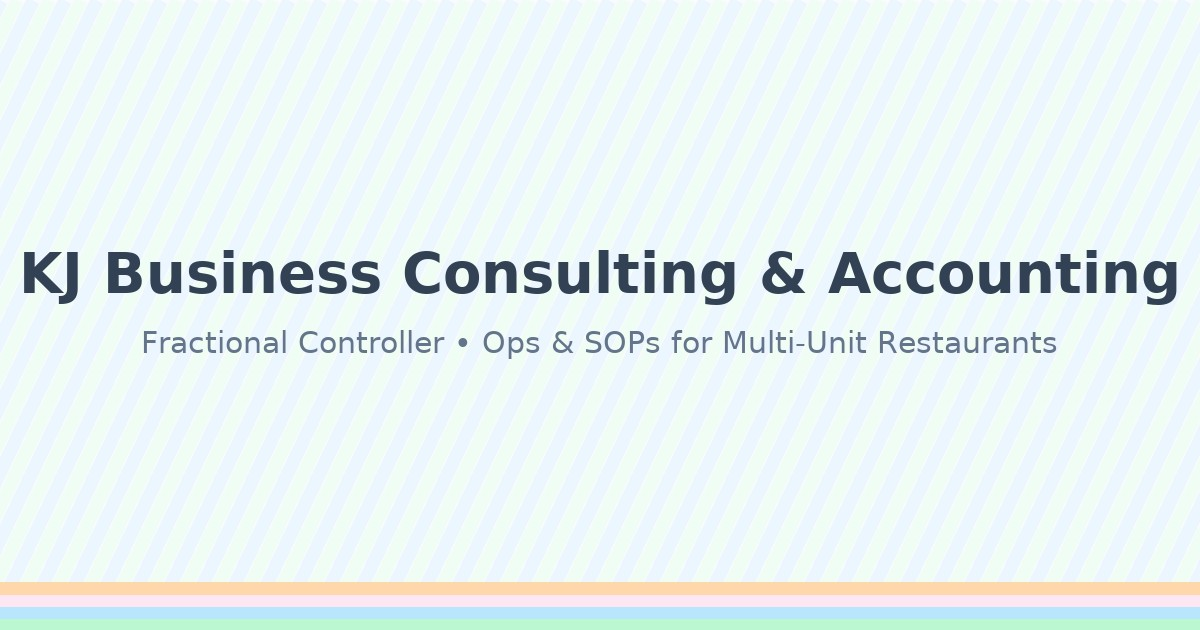
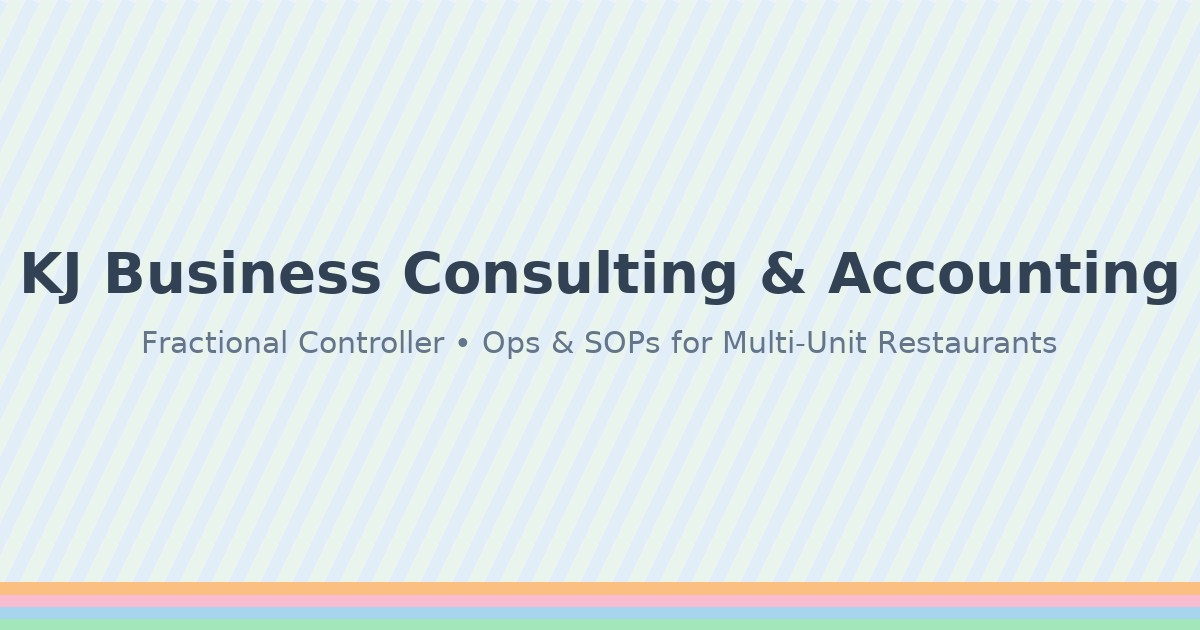
Add files via upload

Changed region(s): [[0.0, 0.9048, 1.0, 0.9952]]

diff --git a/index.html b/index.html
@@ -5,43 +5,65 @@
   <meta name="viewport" content="width=device-width, initial-scale=1" />
   <title>KJ Business Consulting & Accounting — Fractional Controller for Restaurants</title>
   <meta name="description" content="Restaurant-focused fractional controller & operations consulting: weekly P&Ls, 5-day close, KPIs, SOPs, and floor execution for multi-unit operators." />
-  <meta id="themeColorMeta" name="theme-color" content="#f8fafc" />
+  <meta id="themeColorMeta" name="theme-color" content="#e9eef6" />
   <link rel="icon" href="/favicon.ico">
   <link rel="preconnect" href="https://fonts.googleapis.com">
   <link rel="preconnect" href="https://fonts.gstatic.com" crossorigin>
   <link href="https://fonts.googleapis.com/css2?family=Inter:wght@300;400;500;600;700;800;900&display=swap" rel="stylesheet">
   <style>
     :root{
-      --bg:#fafcff; --bg-grad:#ffffff; --fg:#0f172a; --muted:#475569; --card:#ffffff; --border:rgba(15,23,42,.10);
-      --p-green:#bbf7d0; --p-sky:#bae6fd; --p-pink:#fce7f3; --p-amber:#fed7aa;
+      --bg:#eef2f7; --bg-grad:#f7f9fc; --fg:#0f172a; --muted:#475569; --card:#ffffff; --border:rgba(15,23,42,.12);
+      --p-green:#a3e6ba; --p-sky:#a8d5ee; --p-pink:#f8bbd0; --p-amber:#fbbf82;  /* darker pastels for contrast */
       --corner-size:16px; --radius:18px; --shadow: 0 18px 35px rgba(2,6,23,.08);
     }
+    /* Soft dark mode */
+    [data-theme="dark"]{
+      --bg:#0e1523; --bg-grad:#101a2f; --fg:#e5e7eb; --muted:#9aa6b2; --card:#0f1b30; --border:rgba(148,163,184,.22);
+      --p-green:#3bc981; --p-sky:#4bb6ee; --p-pink:#f08fb1; --p-amber:#f2a65a;
+      --shadow: 0 18px 35px rgba(0,0,0,.35);
+    }
+
     *{box-sizing:border-box}
     html,body{margin:0;padding:0;background:linear-gradient(180deg,var(--bg) 0%, var(--bg) 40%, var(--bg-grad) 100%);color:var(--fg);font-family:Inter,system-ui,-apple-system,Segoe UI,Roboto,"Helvetica Neue",Arial,"Noto Sans",sans-serif;}
     a{color:#0ea5e9}
+    [data-theme="dark"] a{color:#7dd3fc}
+
     .container{max-width:1100px;margin:0 auto;padding:0 20px}
-    header{position:sticky;top:0;backdrop-filter:saturate(180%) blur(8px);background:rgba(248,250,252,.86);border-bottom:1px solid var(--border);z-index:10}
-    nav{display:flex;align-items:center;justify-content:space-between;padding:14px 0;gap:12px}
+
+    header{position:sticky;top:0;backdrop-filter:saturate(180%) blur(8px);background:rgba(238,242,247,.86);border-bottom:1px solid var(--border);z-index:10}
+    [data-theme="dark"] header{background:rgba(15,22,35,.72)}
+    nav{display:flex;align-items:center;justify-content:space-between;padding:12px 0;gap:12px}
     .logo{display:flex;align-items:center;gap:10px;text-decoration:none;color:inherit}
     .logo svg{width:40px;height:40px}
     .logo span{font-weight:800;letter-spacing:.2px}
-    .nav-links a{color:var(--fg);text-decoration:none;margin-left:12px;font-weight:600;opacity:.9}
+    .nav-links a{color:var(--fg);text-decoration:none;margin-left:12px;font-weight:600;opacity:.92}
+    .toggle{border:1px solid var(--border);background:transparent;border-radius:999px;padding:8px 12px;color:var(--fg);cursor:pointer}
+
+    /* Buttons */
     .btn{display:inline-flex;align-items:center;gap:10px;border:none;color:#0f172a;padding:12px 16px;border-radius:14px;font-weight:800;text-decoration:none;box-shadow:var(--shadow);cursor:pointer}
     .btn.book{background:linear-gradient(135deg,var(--p-green),var(--p-sky));}
     .btn.email{background:linear-gradient(135deg,var(--p-pink),var(--p-amber));}
+    [data-theme="dark"] .btn{color:#08111e}
+
     .hero{padding:72px 0 40px;border-bottom:1px solid var(--border);text-align:center}
-    .tagline{display:inline-flex;align-items:center;gap:10px;font-size:13px;letter-spacing:.2em;text-transform:uppercase;color:#0f172a;background:linear-gradient(90deg,var(--p-pink),var(--p-amber));padding:10px 14px;border-radius:999px;font-weight:900;border:1px solid rgba(15,23,42,.08);box-shadow:var(--shadow);}
+    .tagline{display:inline-flex;align-items:center;gap:10px;font-size:14px;letter-spacing:.22em;text-transform:uppercase;color:#0f172a;background:linear-gradient(90deg,var(--p-pink),var(--p-amber));padding:10px 16px;border-radius:999px;font-weight:900;border:1px solid rgba(15,23,42,.10);box-shadow:var(--shadow);}
+    [data-theme="dark"] .tagline{color:#08111e; border-color:rgba(255,255,255,.06)}
     .hero-ctas{display:flex;gap:12px;justify-content:center;margin:18px 0 28px}
     h1{font-size:clamp(30px,4vw,44px);line-height:1.15;margin:0 0 12px;font-weight:900}
     .sub{font-size:18px;color:var(--muted);margin-bottom:26px;max-width:860px;margin-left:auto;margin-right:auto}
+
     .stripe{height:6px;background:linear-gradient(90deg,var(--p-green),var(--p-sky),var(--p-pink),var(--p-amber));border-radius:999px;margin:28px 0}
+
     .grid-3{display:grid;grid-template-columns:repeat(3,1fr);gap:18px}
     .grid-4{display:grid;grid-template-columns:repeat(4,1fr);gap:18px}
     @media (max-width: 980px){ .grid-3,.grid-4{grid-template-columns:1fr} }
+
     .card{position:relative;background:var(--card);border:1px solid var(--border);border-radius:var(--radius);padding:18px;box-shadow:0 10px 30px rgba(14,165,233,.10), 0 18px 40px rgba(251,113,133,.08);}
+    [data-theme="dark"] .card{box-shadow:0 10px 30px rgba(0,0,0,.35)}
     .card::before,.card::after{content:"";position:absolute;width:var(--corner-size);height:var(--corner-size);border-radius:10px;z-index:1}
     .card::before{top:-1px;left:-1px;background:linear-gradient(135deg,var(--p-green),var(--p-sky));}
     .card::after{bottom:-1px;right:-1px;background:linear-gradient(135deg,var(--p-pink),var(--p-amber));}
+
     h2.section-title{text-align:center;margin:0 0 18px;position:relative;padding-bottom:10px;font-size:28px}
     h2.section-title .bar{position:absolute;left:0;right:0;margin:auto;bottom:-2px;height:4px;width:160px;border-radius:999px}
     .h-green .bar{background:linear-gradient(90deg,var(--p-green),#d1fae5)}
@@ -49,15 +71,20 @@
     .h-pink .bar{background:linear-gradient(90deg,var(--p-pink),#ffe4f1)}
     .h-amber .bar{background:linear-gradient(90deg,var(--p-amber),#ffedd5)}
     .h-mix .bar{background:linear-gradient(90deg,var(--p-green),var(--p-sky),var(--p-pink))}
-    .badge{display:inline-block;border:1px solid var(--border);padding:6px 10px;border-radius:999px;margin:6px 6px 0 0;color:#0f172a;font-weight:700;font-size:12px;background:#f8fafc}
+
+    .badge{display:inline-block;border:1px solid var(--border);padding:6px 10px;border-radius:999px;margin:6px 6px 0 0;color:var(--fg);font-weight:700;font-size:12px;background:transparent}
     .note{font-size:12px;color:var(--muted);margin-top:8px;max-width:860px;margin-left:auto;margin-right:auto}
+
     section{padding:56px 0;border-bottom:1px solid var(--border)}
     footer{padding:24px 0;color:#64748b}
-    .footer-grid{display:grid;grid-template-columns:auto 1fr;align-items:center;gap:12px}
+    [data-theme="dark"] footer{color:#9aa6b2}
+    .footer-grid{display:grid;grid-template-columns:1fr 1fr 1fr;align-items:center;gap:12px}
     .footer-left{display:flex;gap:10px;justify-self:start}
-    .footer-center{text-align:center;width:100%}
-    .intake-form input, .intake-form select, .intake-form textarea{padding:12px;border-radius:12px;border:1px solid var(--border);background:#fbfdff;color:var(--fg);width:100%}
-    .intake-form fieldset{border:1px solid var(--border);border-radius:12px;padding:12px;background:#ffffff}
+    .footer-center{text-align:center}
+    .footer-right{display:flex;gap:10px;justify-self:end}
+
+    .intake-form input, .intake-form select, .intake-form textarea{padding:12px;border-radius:12px;border:1px solid var(--border);background:var(--card);color:var(--fg);width:100%}
+    .intake-form fieldset{border:1px solid var(--border);border-radius:12px;padding:12px;background:var(--card)}
     .intake-form legend{padding:0 6px;color:var(--muted)}
   </style>
 </head>
@@ -68,7 +95,7 @@
         <a class="logo" href="#top" aria-label="KJ Business Consulting & Accounting home">
           <svg viewBox="0 0 64 64" role="img" aria-hidden="true">
             <defs><linearGradient id="g" x1="0" y1="0" x2="1" y2="1">
-              <stop offset="0%" stop-color="#bbf7d0"/><stop offset="60%" stop-color="#bae6fd"/><stop offset="100%" stop-color="#fed7aa"/></linearGradient></defs>
+              <stop offset="0%" stop-color="#a3e6ba"/><stop offset="60%" stop-color="#a8d5ee"/><stop offset="100%" stop-color="#fbbf82"/></linearGradient></defs>
             <rect x="4" y="4" width="56" height="56" rx="14" fill="url(#g)"/>
             <text x="50%" y="52%" text-anchor="middle" dominant-baseline="middle" font-family="Inter, Arial, sans-serif" font-weight="900" font-size="28" fill="#1f2937">KJ</text>
           </svg>
@@ -82,6 +109,7 @@
           <a href="#about">About</a>
           <a href="#contact">Contact</a>
         </div>
+        <button class="toggle" id="themeToggle" aria-label="Toggle light/dark theme">☀ / ☾</button>
       </nav>
     </div>
   </header>
@@ -292,15 +320,20 @@
       <div class="footer-grid">
         <div class="footer-left">
           <a class="btn email email-cta" href="mailto:kjbusinessconsulting%40gmail.com?subject=Consult%20Request%20%E2%80%94%20KJ%20Business%20Consulting&body=Hi%20Katrina%2C%0A%0AMy%20name%20is%20_____.%20Here%E2%80%99s%20what%20I%E2%80%99m%20looking%20for%3A%0A-%20Accounting%20Software%3A%20_____%0A-%20POS%3A%20_____%0A-%20Locations%3A%20_____%0A-%20States%3A%20_____%0A-%20Services%20Interested%20In%3A%20_____%0A-%20Goals%3A%20_____%0A%0AThanks%21" data-gmail="https://mail.google.com/mail/?view=cm&fs=1&to=kjbusinessconsulting%40gmail.com&su=Consult%20Request%20%E2%80%94%20KJ%20Business%20Consulting&body=Hi%20Katrina%2C%0A%0AMy%20name%20is%20_____.%20Here%E2%80%99s%20what%20I%E2%80%99m%20looking%20for%3A%0A-%20Accounting%20Software%3A%20_____%0A-%20POS%3A%20_____%0A-%20Locations%3A%20_____%0A-%20States%3A%20_____%0A-%20Services%20Interested%20In%3A%20_____%0A-%20Goals%3A%20_____%0A%0AThanks%21">Email Me</a>
-          <a class="btn book" href="#contact">Book a Consult</a>
         </div>
         <div class="footer-center">© <span id="year"></span> KJ Business Consulting & Accounting • All rights reserved</div>
+        <div class="footer-right">
+          <a class="btn book" href="#contact">Book a Consult</a>
+        </div>
       </div>
     </div>
   </footer>
 
   <script>
+    // Year stamp
     document.getElementById('year').textContent = new Date().getFullYear();
+
+    // Smart email fallback (mailto -> Gmail)
     function smartEmail(link) {
       const mailto = link.getAttribute('href');
       const gmail = link.dataset.gmail;
@@ -308,6 +341,26 @@
       setTimeout(() => { try { window.open(gmail, '_blank', 'noopener'); } catch(e) {} }, 600);
     }
     document.querySelectorAll('.email-cta').forEach(a => a.addEventListener('click', e => smartEmail(a)));
+
+    // Theme toggle with localStorage persistence
+    const themeMeta = document.getElementById('themeColorMeta');
+    const toggle = document.getElementById('themeToggle');
+    const saved = localStorage.getItem('kj-theme');
+    let initial = saved;
+    if(!initial){
+      const prefersDark = window.matchMedia && window.matchMedia('(prefers-color-scheme: dark)').matches;
+      initial = prefersDark ? 'dark' : 'light';
+    }
+    document.documentElement.setAttribute('data-theme', initial);
+    themeMeta && themeMeta.setAttribute('content', initial==='light' ? '#e9eef6' : '#0e1523');
+    toggle?.addEventListener('click', () => {
+      const current = document.documentElement.getAttribute('data-theme') || 'light';
+      const next = current === 'dark' ? 'light' : 'dark';
+      document.documentElement.setAttribute('data-theme', next);
+      localStorage.setItem('kj-theme', next);
+      themeMeta && themeMeta.setAttribute('content', next==='light' ? '#e9eef6' : '#0e1523');
+      toggle.setAttribute('aria-pressed', next==='dark');
+    });
   </script>
 </body>
 </html>
